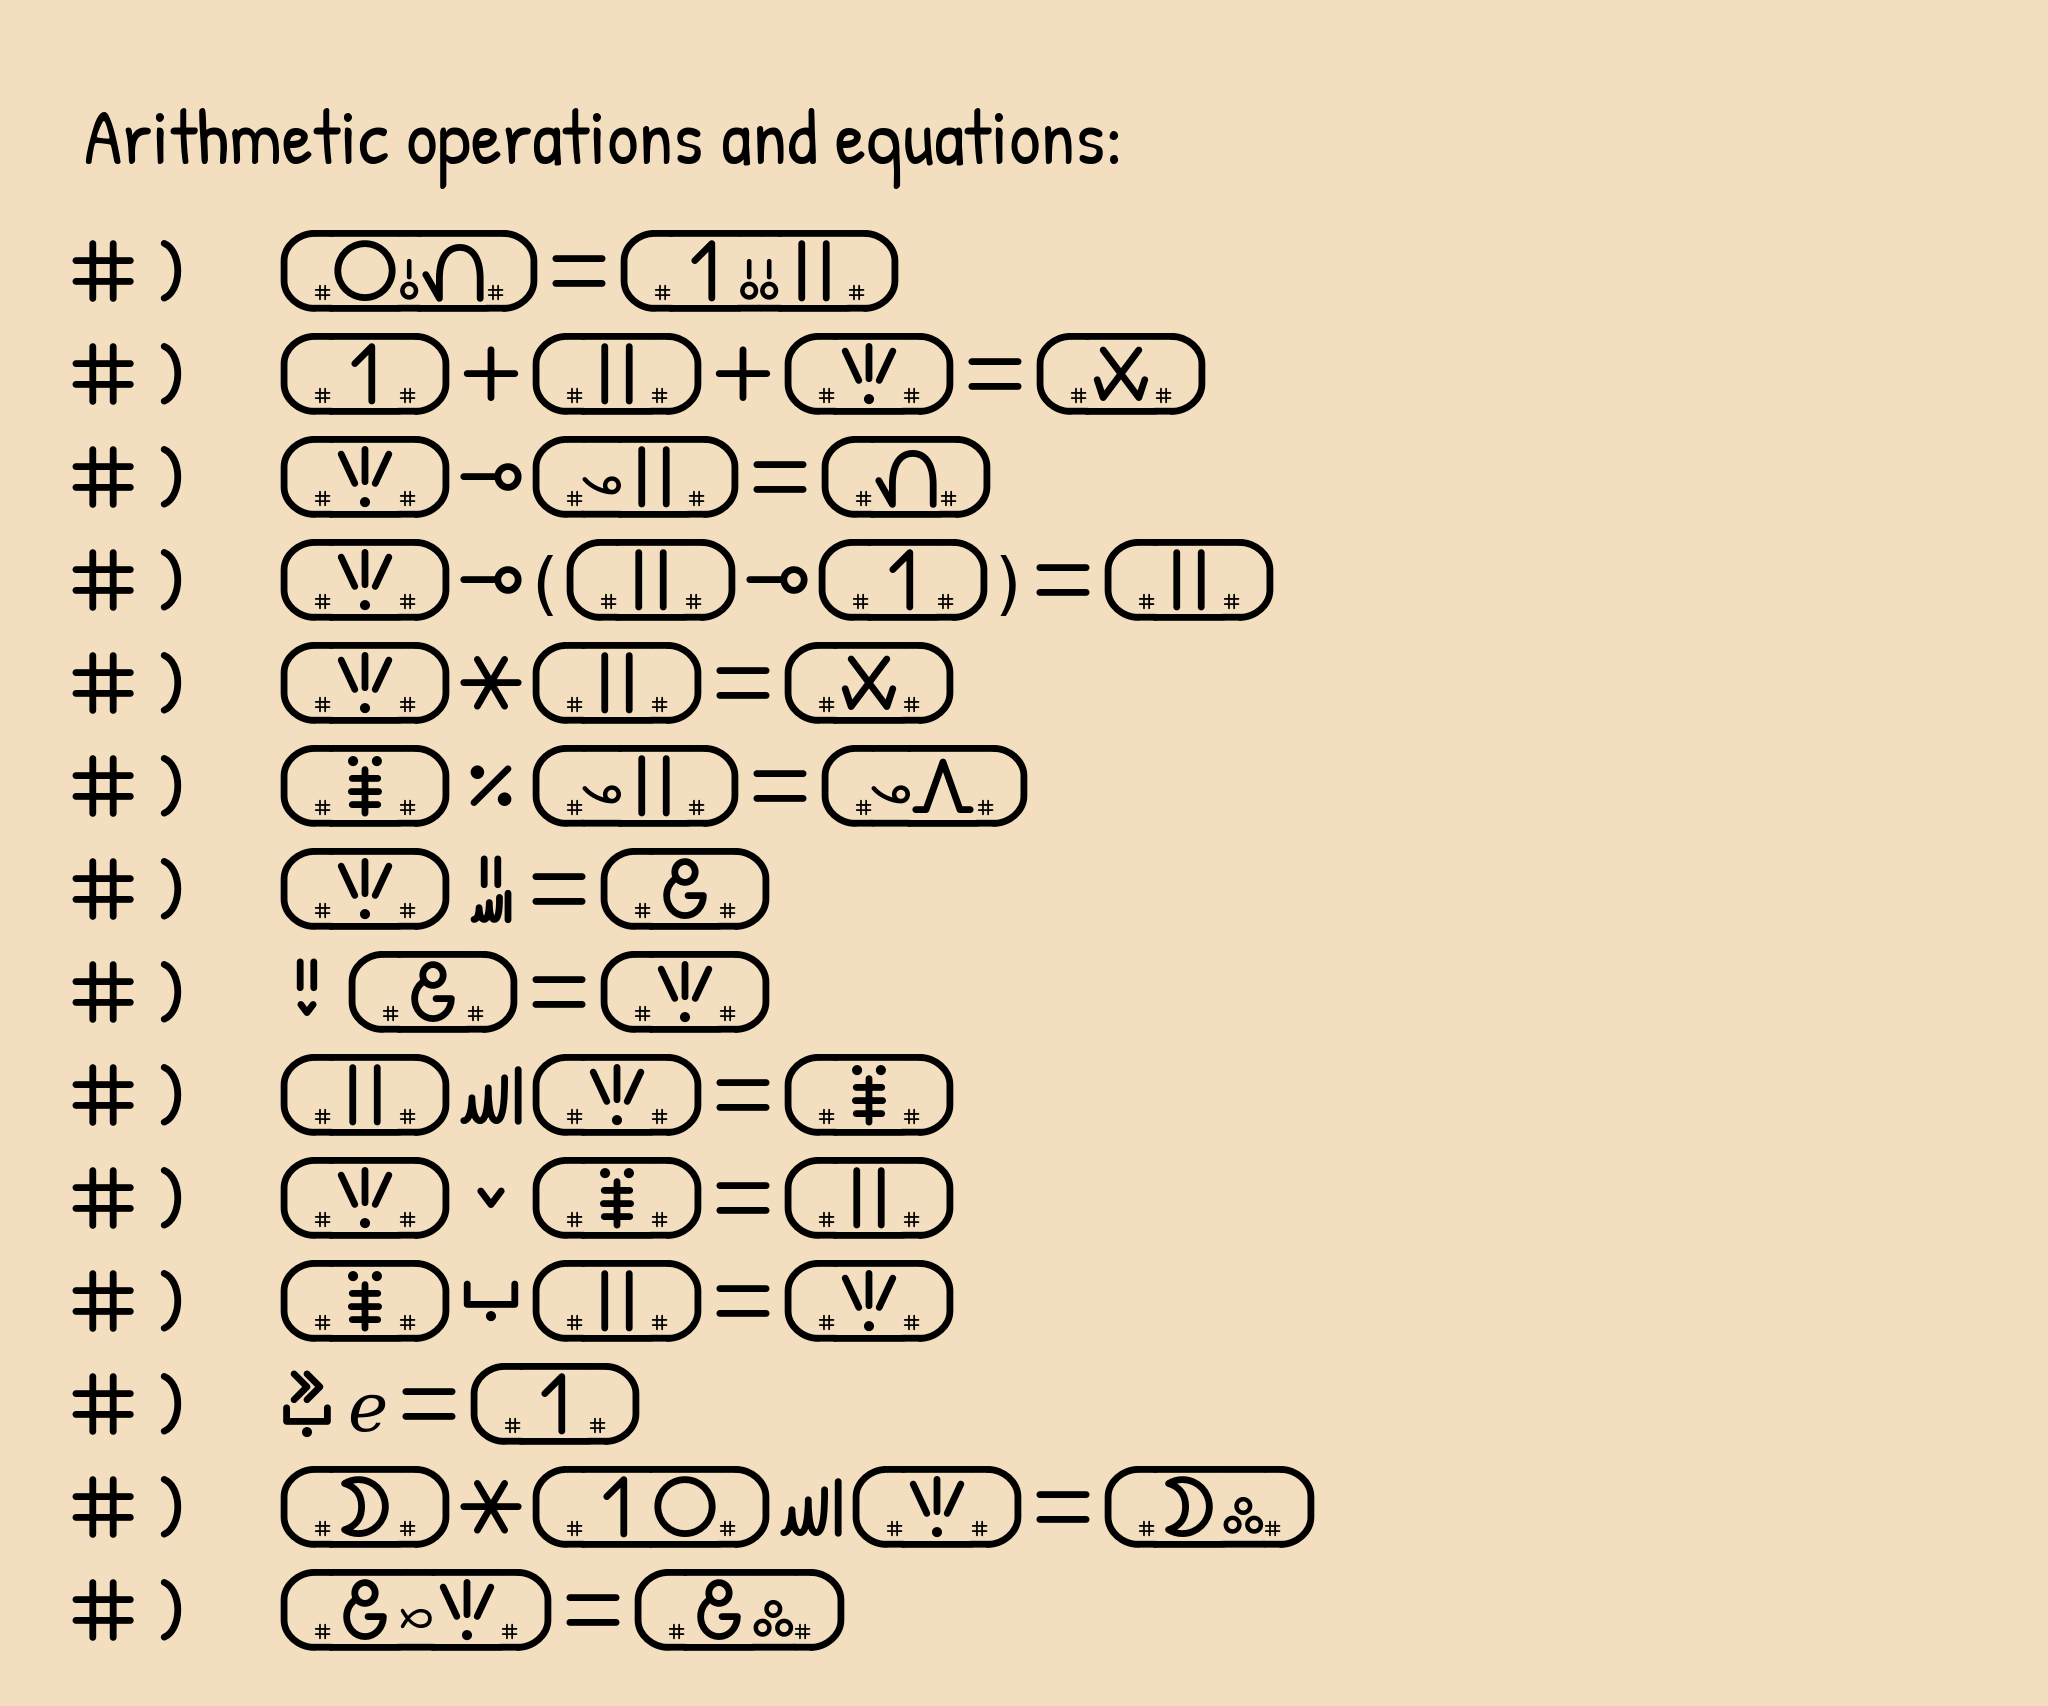
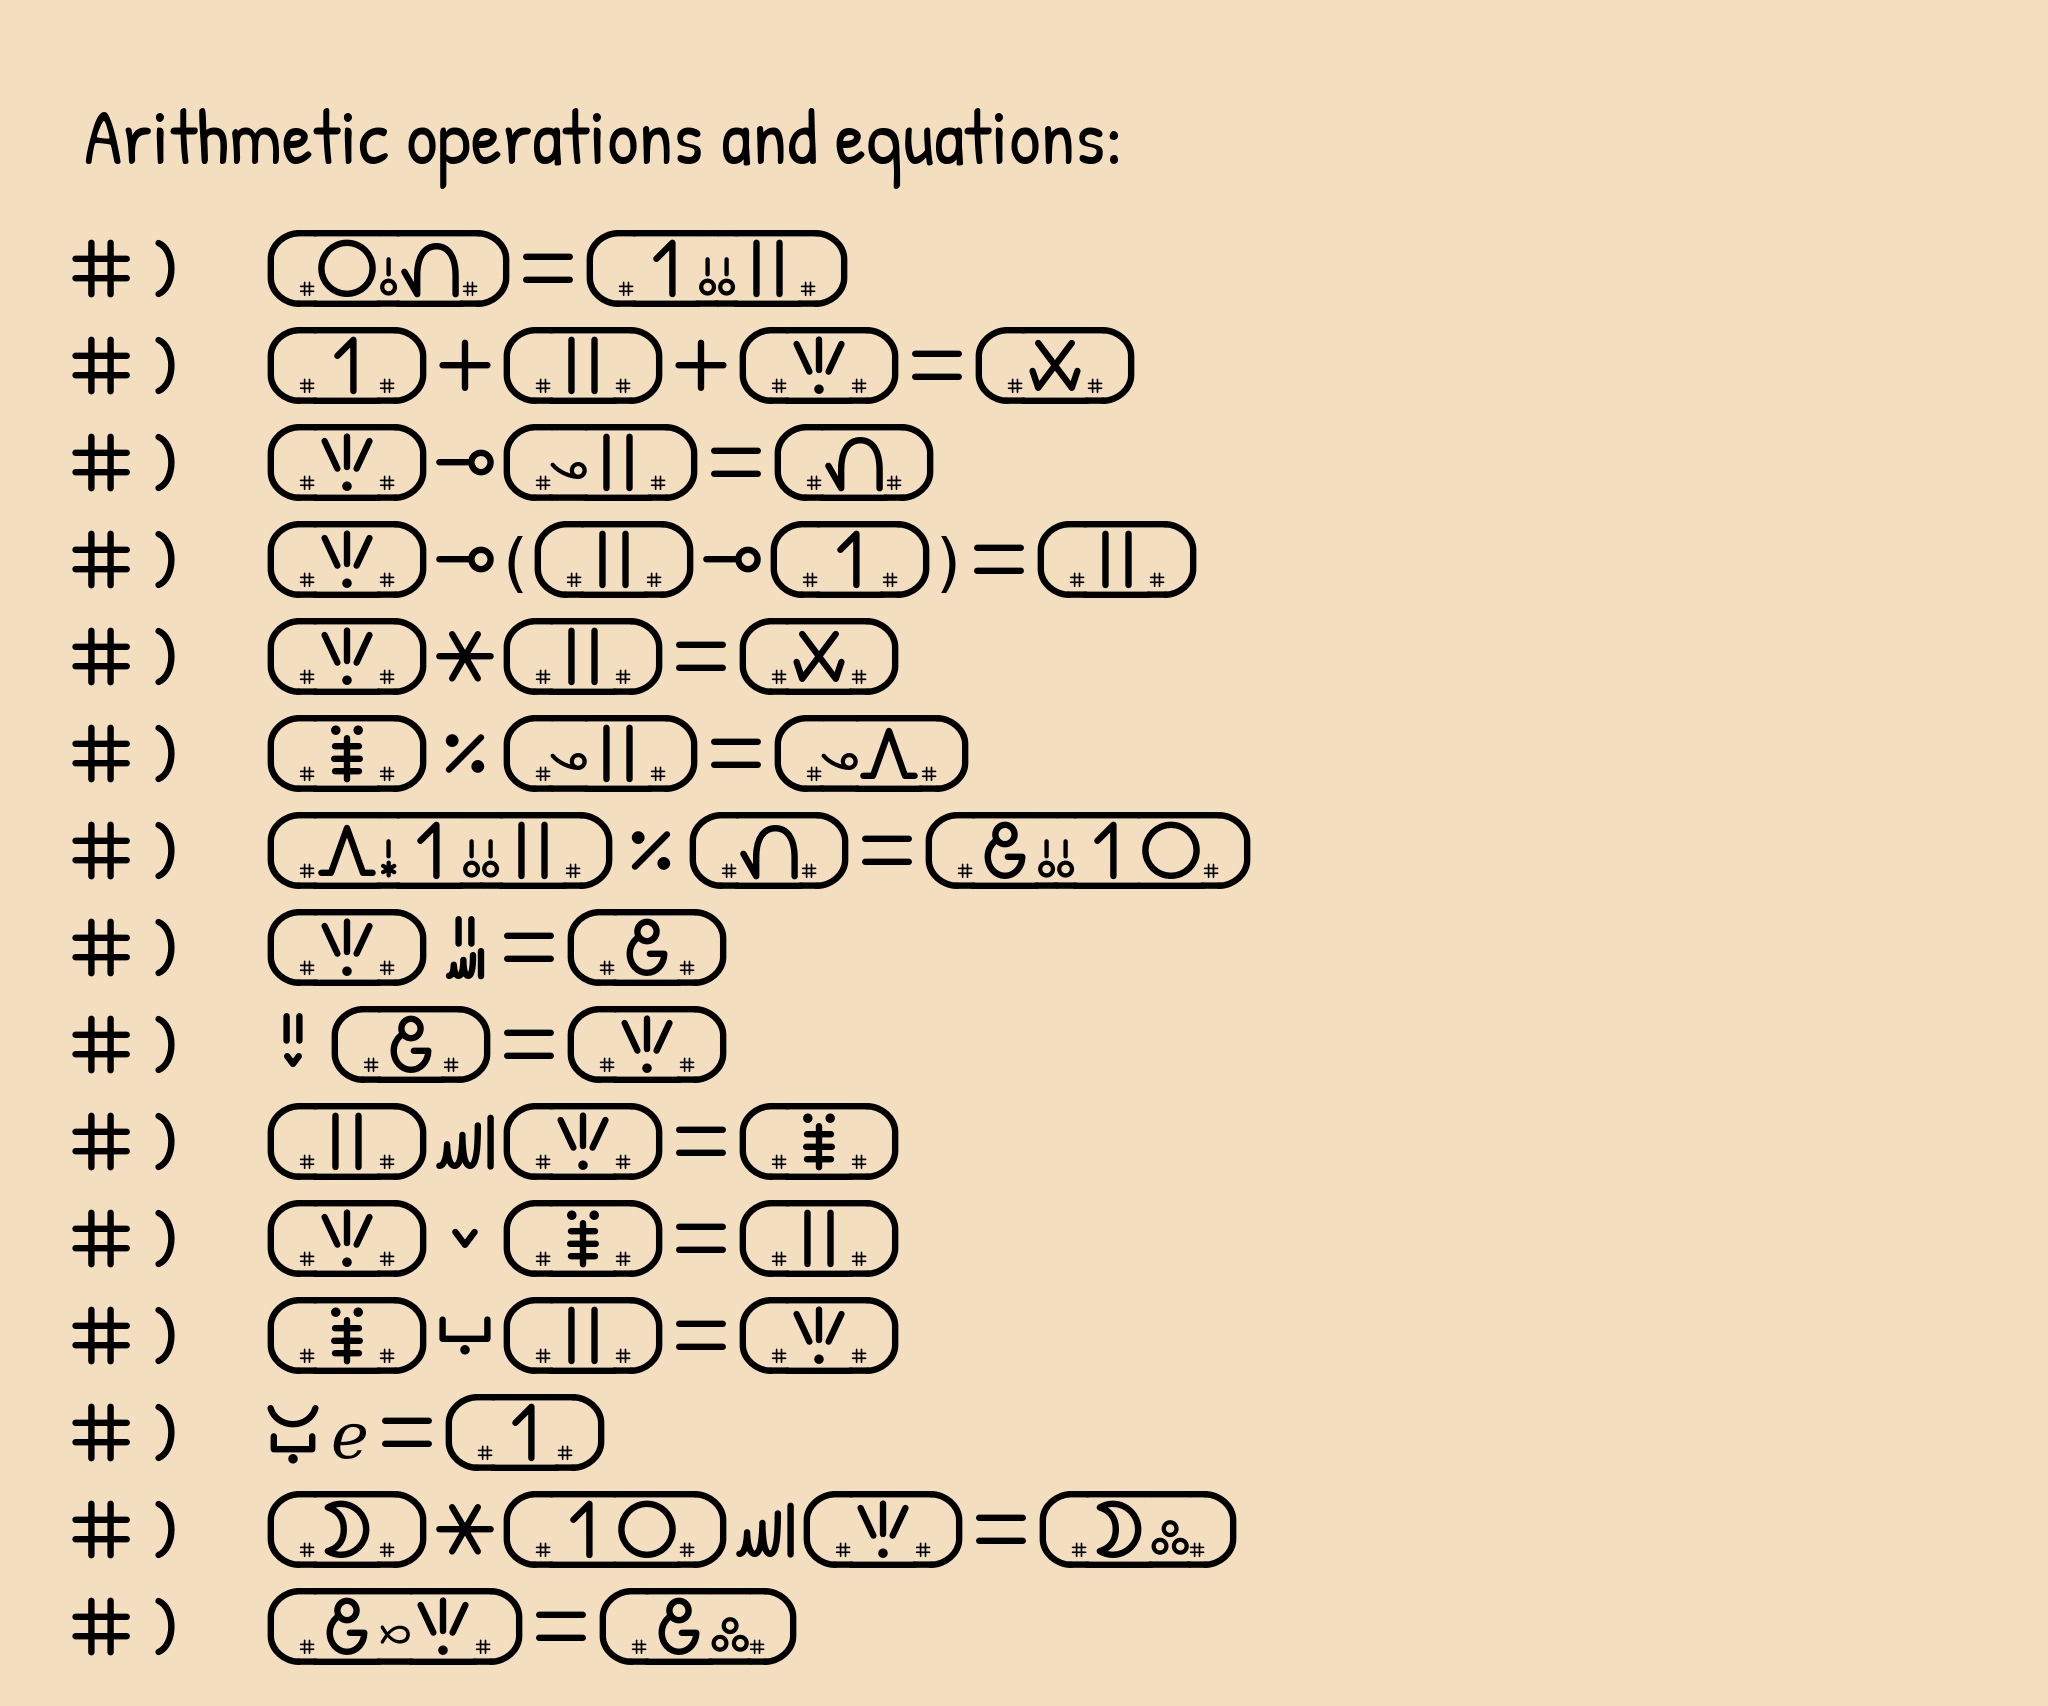
updated docs

Changed region(s): [[0.125, 0.1243, 0.6562, 0.9941], [0.0312, 0.1243, 0.0938, 0.9631]]

diff --git a/docs/calculator.html b/docs/calculator.html
@@ -3280,7 +3280,7 @@
         }
         if (token.type === "function") {
           if (token.value === "sqrt") words.push("lili-tu");
-          else if (token.value === "ln") words.push("anpa-e");
+          else if (token.value === "ln") words.push("anpa-pona");
           continue;
         }
         if (token.type === "postfix") {
@@ -3878,7 +3878,7 @@
       addScientific({ id: "power", labelText: "xʸ", ariaLabel: "General power", onPress: () => pressOp("^"), glyphSpec: { words: ["sewi"] } });
       add({ id: "mul", kind: "op", labelText: "×", ariaLabel: "Multiply / o mute", onPress: () => pressOp("*"), renderFn: c => renderOpButtonCanvas(c, "mul", 34) });
 
-      addScientific({ id: "ln", labelText: "ln", ariaLabel: "Natural logarithm", onPress: () => pressScientificFunction("ln"), glyphSpec: { words: ["anpa", "e"] } });
+      addScientific({ id: "ln", labelText: "ln", ariaLabel: "Natural logarithm", onPress: () => pressScientificFunction("ln"), glyphSpec: { words: ["anpa", "pona"] } });
       addScientific({ id: "log", labelHtml: "log<sub>y</sub>x", ariaLabel: "General logarithm: logarithm of x to base y", onPress: () => pressOp("LOG"), glyphSpec: { words: ["anpa"] } });
       addScientific({ id: "eConstant", labelText: "e", ariaLabel: "Euler's number e", onPress: () => pressConstant("e"), glyphSpec: { unicode: "e" }, fontPx: 36 });
       add({ id: "div", kind: "op", labelText: "÷", ariaLabel: "Divide / o kipisi", onPress: () => pressOp("/"), renderFn: c => renderOpButtonCanvas(c, "div", 34) });

diff --git a/docs/index.html b/docs/index.html
@@ -2239,7 +2239,7 @@
        <hr class="miniDivider"/>
 
           <div class="help">&nbsp;</div>
-      <img id="nanpa-linja-n-abbreviated-numeric-cartouche-examples" width="500" src="./images/arithmetic_operations_examples.png?v=8" />
+      <img id="nanpa-linja-n-abbreviated-numeric-cartouche-examples" width="500" src="./images/arithmetic_operations_examples.png?v=9" />
       <div class="help">&nbsp;</div>
       
        <hr class="miniDivider"/>
